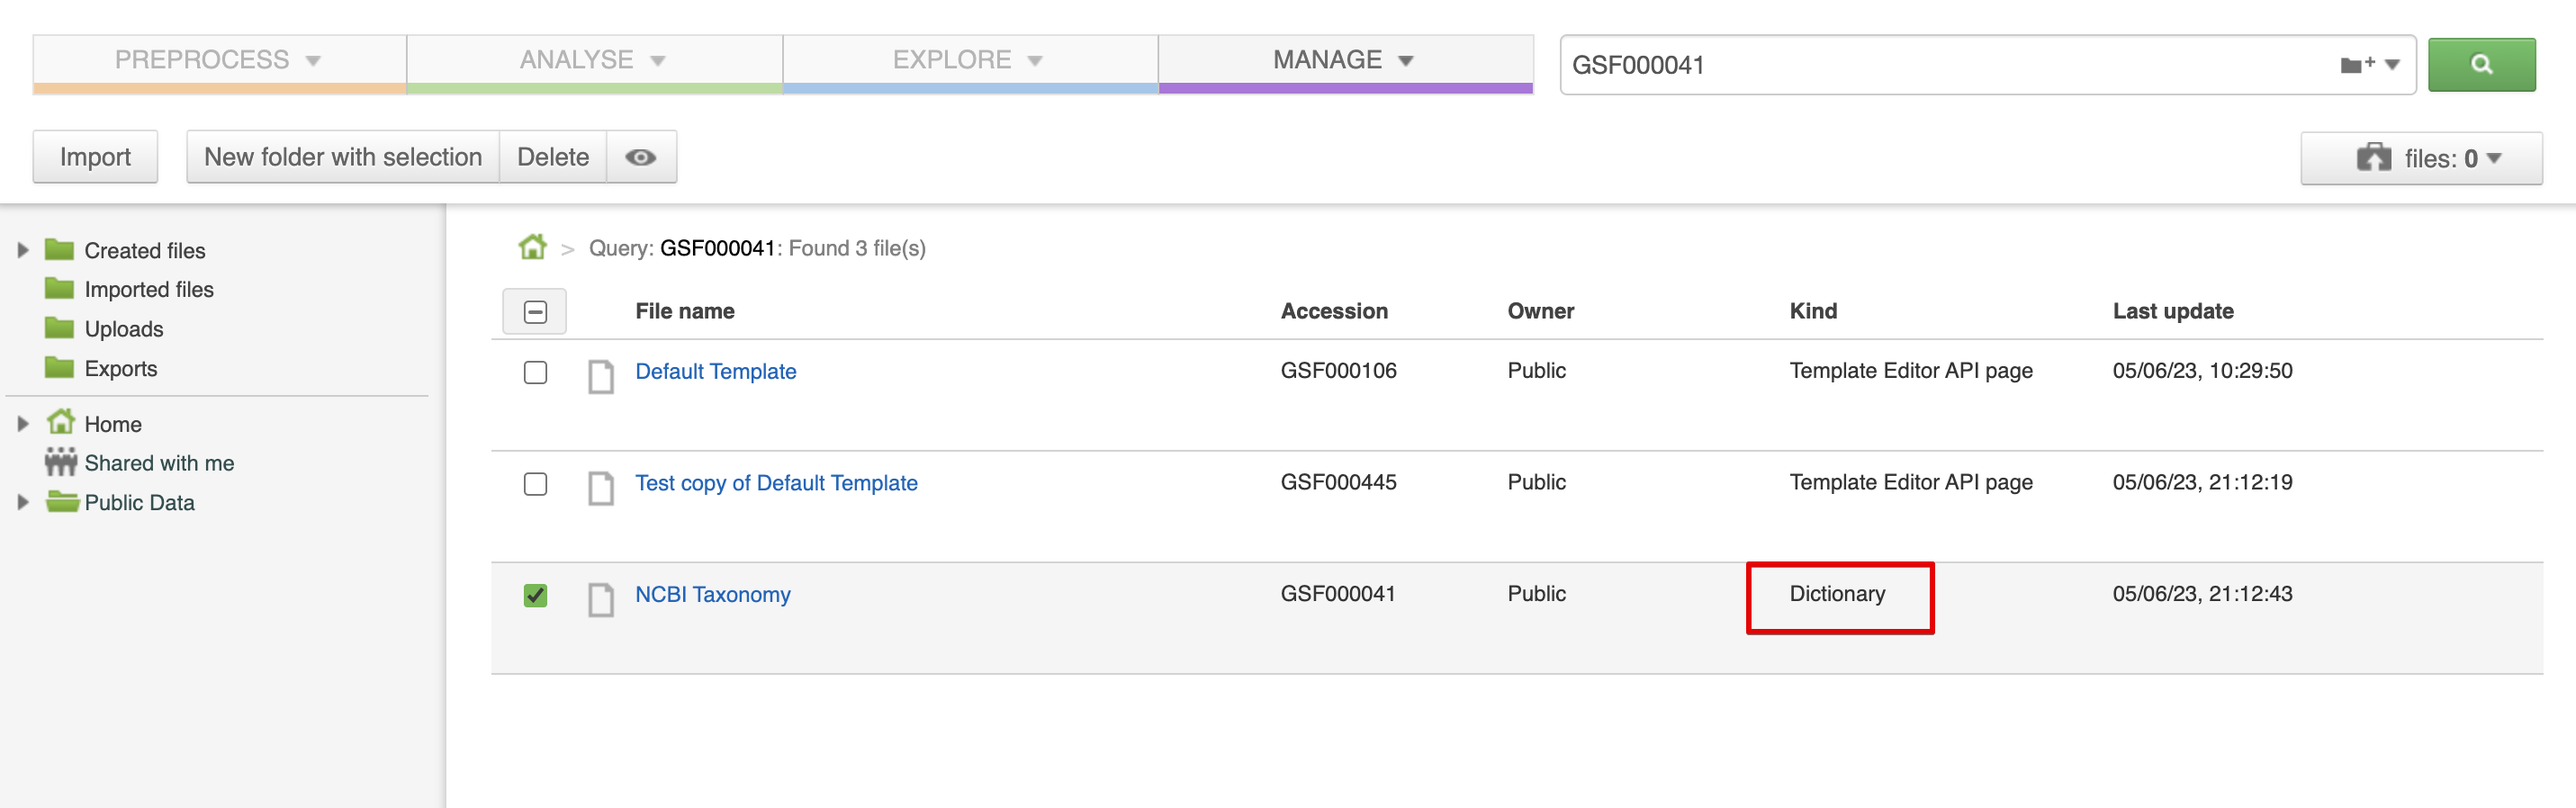
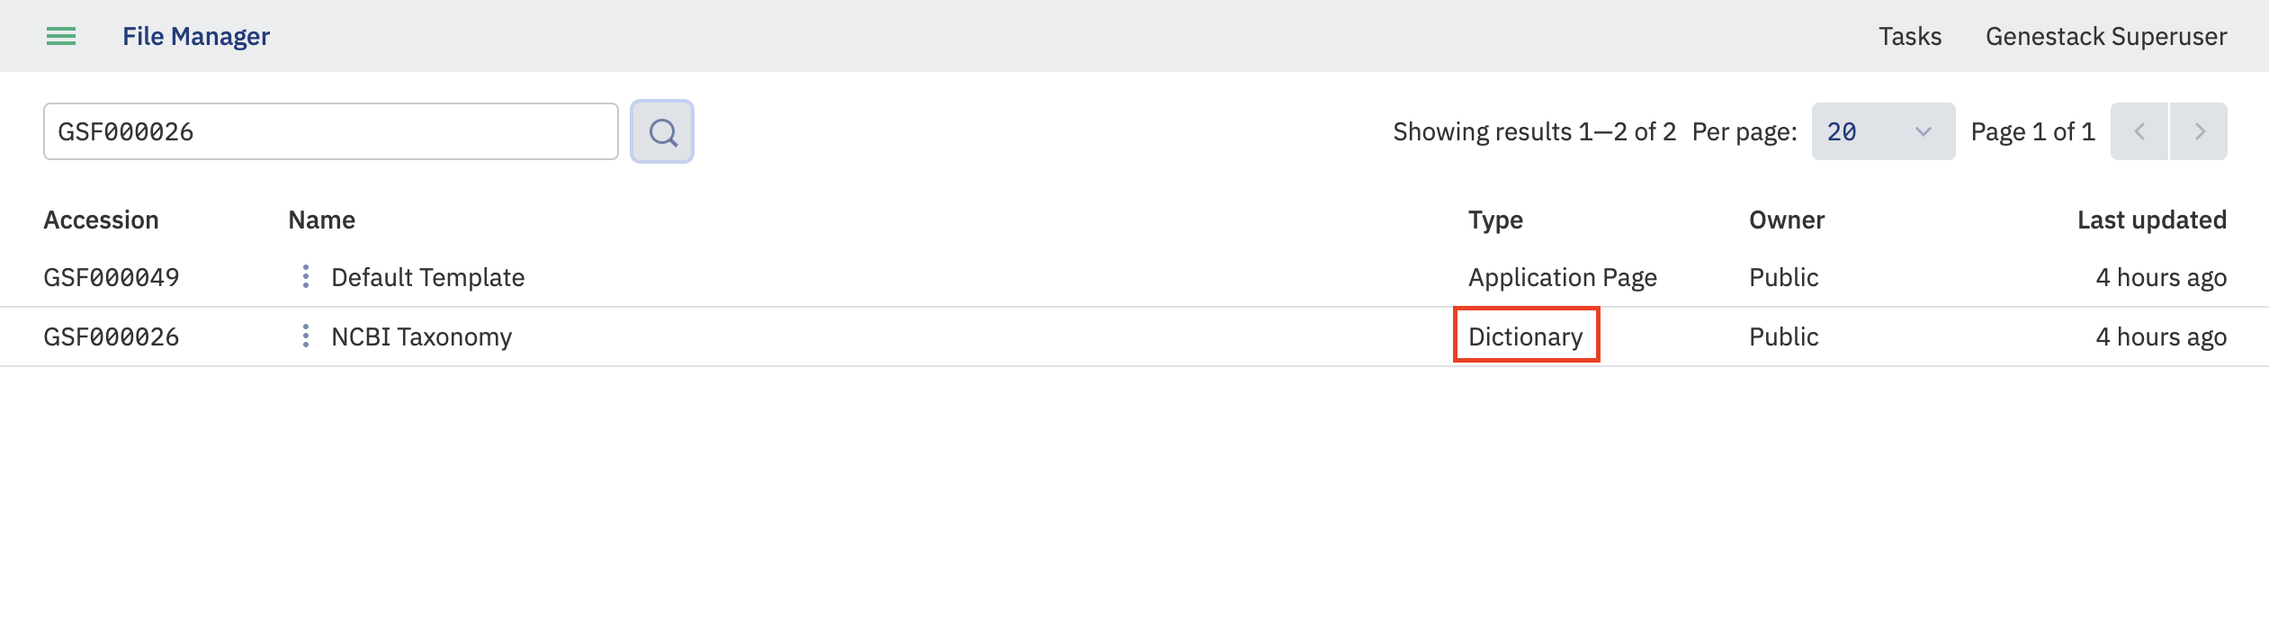
[ODM-11385] Redesign file browser

diff --git a/docs/usage/tools/odm-sdk/terminal/dictionaries-and-ontologies/exporting-ontologies-from-odm.md b/docs/usage/tools/odm-sdk/terminal/dictionaries-and-ontologies/exporting-ontologies-from-odm.md
@@ -7,14 +7,14 @@
 1. To review ontologies used in a particular template, open the template by clicking on the title.
    ![3](exporting-ontologies-from-odm/3.png)
 1. You will see all the attributes, including which are associated with Dictionaries and you can square the list of Dictionaries used.
-1. To get source-file of ontology, you will need accession (e.g. `GSF000041`)
+1. To get source-file of ontology, you will need accession (e.g. `GSF000026`)
 1. Then you will need to go to the File Manager by a direct link:<br/>
-   `[your_host]/frontend/endpoint/application/run/genestack/filebrowser`
+   `[your_host]/ui/files`
 1. Put ontology Accession in the search field and click on the search button. You will see templates which use this dictionary and the dictionary itself. <br/>
    ![7](exporting-ontologies-from-odm/7.png)
-   There are templates files in the search results as well as dictionary files, to easily find a dictionary, look at the column "Kind" and find "Dictionary":
+   There are templates files in the search results as well as dictionary files, to easily find a dictionary, look at the column "Type" and find "Dictionary":
    ![8](exporting-ontologies-from-odm/8.png)
-1. Click on the file title, you will see the context menu, click on "View metainfo"
+1. Click on the more menu, you will see the context menu, click on "More info"
    ![9](exporting-ontologies-from-odm/9.png)
 1. To download the source file click on the link from the Data URL attribute:
    ![10](exporting-ontologies-from-odm/10.png)
